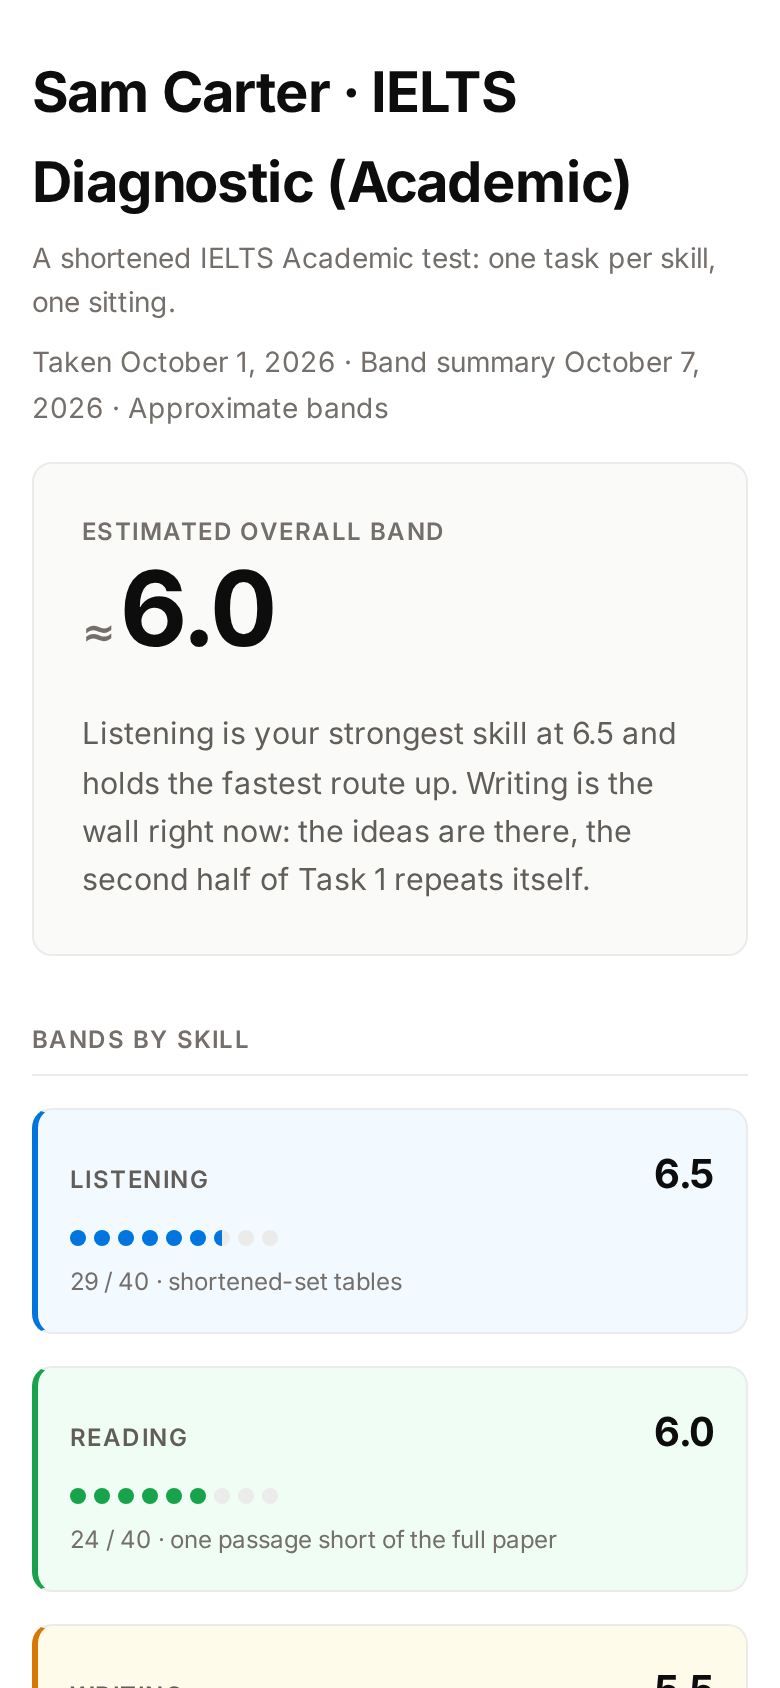
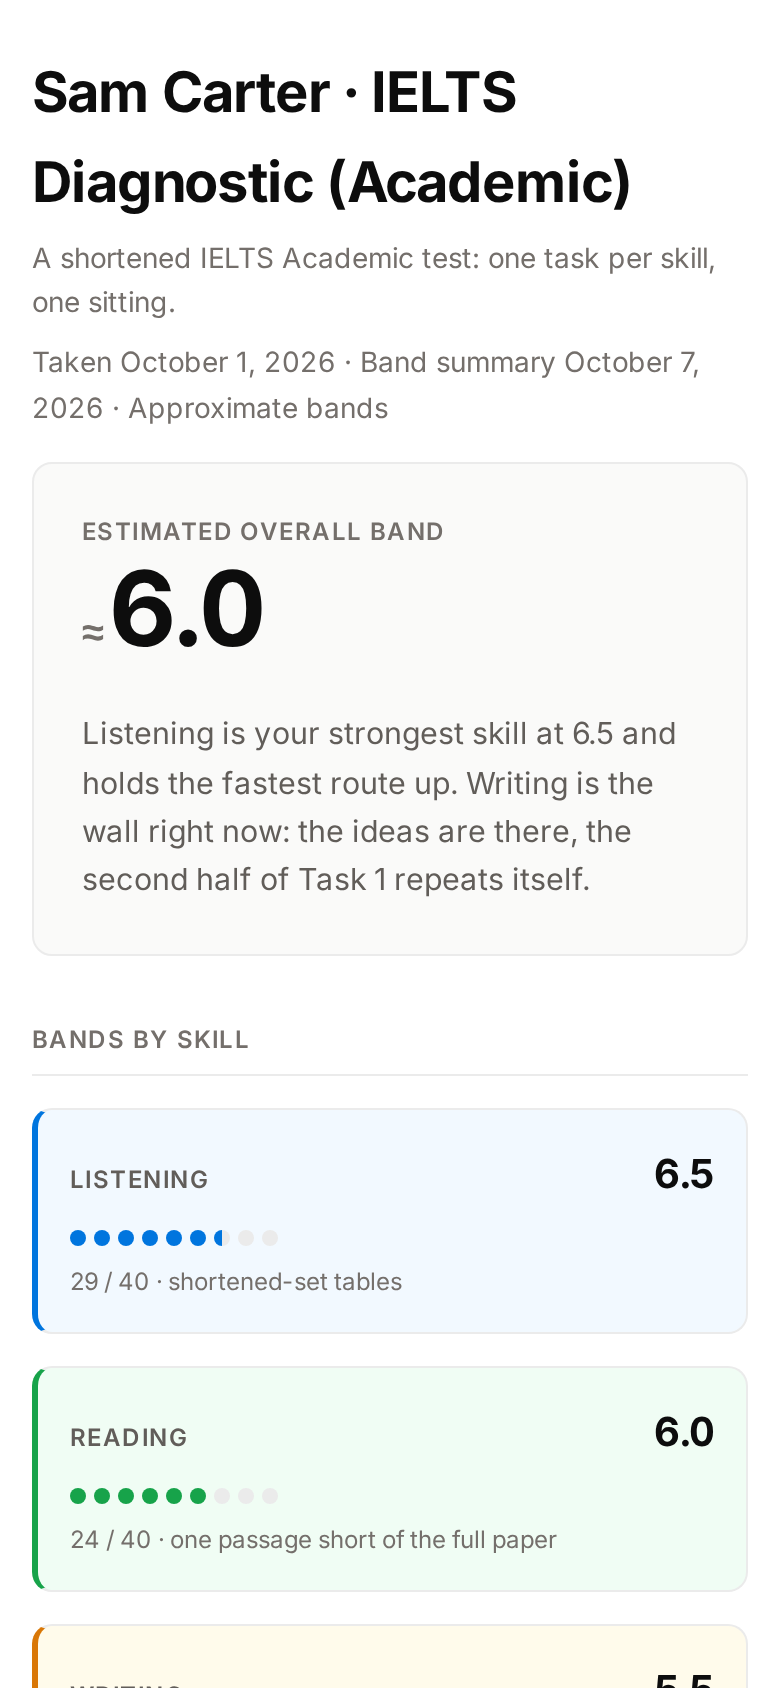
v1.5: the revised-version block retired from the canon (templates — 11 SLOTs, CSS removed; tokens 1.5; spec; demos rebuilt + fresh lint/QA artifacts)

Changed region(s): [[0.1231, 0.3389, 0.3692, 0.4005]]

diff --git a/templates/homework-analysis-template.html b/templates/homework-analysis-template.html
@@ -1,5 +1,5 @@
 <!DOCTYPE html>
-<!-- design-system: v1.3 -->
+<!-- design-system: v1.5 -->
 <html lang="en">
 <head>
 <meta charset="UTF-8" />
@@ -9,7 +9,7 @@
 <link href="https://fonts.googleapis.com/css2?family=Inter:wght@400;500;600;700&display=swap" rel="stylesheet" />
 <style>
   /* ============================================================
-     ESL Feedback Design System v1.3 — canonical stylesheet
+     ESL Feedback Design System v1.5 — canonical stylesheet
      Token values are frozen in tokens.json (repo root) and
      documented in docs/design-system.md.
      Do not tweak one document's copy: change the system, bump the
@@ -145,15 +145,7 @@
   .chip.green { border-color: var(--style); color: var(--style-ink); }
   .chip.purple { border-color: var(--punct); color: var(--punct-ink); }
 
-  /* green reveal boxes */
-  .revised-box {
-    background: var(--style-tint); border: 1px solid var(--praise-line); border-radius: var(--r-2);
-    padding: var(--sp-5); margin: var(--sp-4) 0; line-height: 1.8;
-  }
-  .revised-box .label {
-    display: inline-block; background: var(--style-ink); color: var(--white); font-size: var(--fs-6);
-    font-weight: 600; padding: var(--sp-1) var(--sp-3); border-radius: var(--r-3); margin-bottom: var(--sp-3);
-  }
+  /* green praise box */
   .praise-box {
     background: var(--style-tint); border: 1px solid var(--praise-line); border-radius: var(--r-2);
     padding: var(--sp-4) var(--sp-5); margin: var(--sp-3) 0;
@@ -209,7 +201,7 @@
   @media (max-width: 600px) { .tips-grid { grid-template-columns: 1fr; } }
   @media (max-width: 480px) {
     body { padding: var(--sp-5) var(--sp-4); }
-    .transcript-box, .revised-box, .strengths-box { padding: var(--sp-4); }
+    .transcript-box, .strengths-box { padding: var(--sp-4); }
     .fix-item { padding: var(--sp-3); }
   }
 
@@ -218,7 +210,7 @@
     body { max-width: none; padding: 0; print-color-adjust: exact; -webkit-print-color-adjust: exact; }
     .audio-block { display: none; }
     .table-scroll { overflow: visible; }
-    .fix-item, .transcript-box, .revised-box, .praise-box, .callout, .tip-card, .strengths-box, table.comp tr { break-inside: avoid; page-break-inside: avoid; }
+    .fix-item, .transcript-box, .praise-box, .callout, .tip-card, .strengths-box, table.comp tr { break-inside: avoid; page-break-inside: avoid; }
     a { text-decoration: underline; }
   }
 </style>
@@ -226,7 +218,7 @@
 <body>
 
 <!-- ================================================================
-     HOW TO USE THIS TEMPLATE (design-system v1.3)
+     HOW TO USE THIS TEMPLATE (design-system v1.5)
      1. Copy this file to <student>-<unit>-<date>.html and fill every
         block marked SLOT. Keep the class names and the structure.
      2. Task blocks (TASK BLOCK START / END) repeat once per task.
@@ -316,15 +308,6 @@
   <span class="chip purple">Punctuation</span>
   <div class="fix-line"><span class="orig">tired, because</span> → <span class="sugg">tired because</span></div>
   <div class="why">Russian puts a comma before "потому что"; English runs the two clauses together. Save commas for lists and asides.</div>
-</div>
-
-<!-- SLOT: revised version — the corrected text. Heading says "(Spoken)" for audio tasks, plain for written -->
-<h3>How It Could Sound (Spoken)</h3>
-<div class="revised-box">
-  <div class="label">More Polished Spoken Version</div>
-  Alex flew to Lisbon on Friday. He didn't take a taxi, he took the metro, and at the hotel he booked a room
-  with a view of the river. On the second day the museum was closed and the restaurant was full. So they walked
-  to the old town. He was tired because he woke up early, so he missed breakfast.
 </div>
 
 <!-- SLOT: praise — one concrete thing the student did right in this task; always keep one -->

diff --git a/examples/demo-homework-analysis.html b/examples/demo-homework-analysis.html
@@ -1,5 +1,5 @@
 <!DOCTYPE html>
-<!-- design-system: v1.3 -->
+<!-- design-system: v1.5 -->
 <html lang="en">
 <head>
 <meta charset="UTF-8" />
@@ -9,7 +9,7 @@
 <link href="https://fonts.googleapis.com/css2?family=Inter:wght@400;500;600;700&display=swap" rel="stylesheet" />
 <style>
   /* ============================================================
-     ESL Feedback Design System v1.3 — canonical stylesheet
+     ESL Feedback Design System v1.5 — canonical stylesheet
      Token values are frozen in tokens.json (repo root) and
      documented in docs/design-system.md.
      Do not tweak one document's copy: change the system, bump the
@@ -145,15 +145,7 @@
   .chip.green { border-color: var(--style); color: var(--style-ink); }
   .chip.purple { border-color: var(--punct); color: var(--punct-ink); }
 
-  /* green reveal boxes */
-  .revised-box {
-    background: var(--style-tint); border: 1px solid var(--praise-line); border-radius: var(--r-2);
-    padding: var(--sp-5); margin: var(--sp-4) 0; line-height: 1.8;
-  }
-  .revised-box .label {
-    display: inline-block; background: var(--style-ink); color: var(--white); font-size: var(--fs-6);
-    font-weight: 600; padding: var(--sp-1) var(--sp-3); border-radius: var(--r-3); margin-bottom: var(--sp-3);
-  }
+  /* green praise box */
   .praise-box {
     background: var(--style-tint); border: 1px solid var(--praise-line); border-radius: var(--r-2);
     padding: var(--sp-4) var(--sp-5); margin: var(--sp-3) 0;
@@ -209,7 +201,7 @@
   @media (max-width: 600px) { .tips-grid { grid-template-columns: 1fr; } }
   @media (max-width: 480px) {
     body { padding: var(--sp-5) var(--sp-4); }
-    .transcript-box, .revised-box, .strengths-box { padding: var(--sp-4); }
+    .transcript-box, .strengths-box { padding: var(--sp-4); }
     .fix-item { padding: var(--sp-3); }
   }
 
@@ -218,7 +210,7 @@
     body { max-width: none; padding: 0; print-color-adjust: exact; -webkit-print-color-adjust: exact; }
     .audio-block { display: none; }
     .table-scroll { overflow: visible; }
-    .fix-item, .transcript-box, .revised-box, .praise-box, .callout, .tip-card, .strengths-box, table.comp tr { break-inside: avoid; page-break-inside: avoid; }
+    .fix-item, .transcript-box, .praise-box, .callout, .tip-card, .strengths-box, table.comp tr { break-inside: avoid; page-break-inside: avoid; }
     a { text-decoration: underline; }
   }
 </style>
@@ -292,15 +284,6 @@
   <div class="fix-line"><span class="orig">came out, after lunch</span> → <span class="sugg">came out after lunch</span></div>
   <div class="why">No comma before <b>after lunch</b>. The sentence runs without a pause, and commas are for lists
   and real pauses.</div>
-</div>
-
-<h3>How It Could Sound (Spoken)</h3>
-<div class="revised-box">
-  <div class="label">More Polished Spoken Version</div>
-  Last weekend we went to Chiang Mai. We took the night train and arrived on Saturday morning. The hotel was near
-  the river, so we walked to the market and ate street food. We watched the sunset, then went back to the hotel.
-  On Sunday my sister wanted to take photos of the temple. It was raining, but we waited and the sun came out
-  after lunch.
 </div>
 
 <div class="praise-box">

diff --git a/templates/band-card-template.html b/templates/band-card-template.html
@@ -1,5 +1,5 @@
 <!DOCTYPE html>
-<!-- design-system: v1.4 -->
+<!-- design-system: v1.5 -->
 <html lang="en">
 <head>
 <meta charset="UTF-8" />
@@ -10,7 +10,7 @@
 <style>
 
   /* ============================================================
-     ESL Feedback Design System v1.3 — canonical stylesheet
+     ESL Feedback Design System v1.5 — canonical stylesheet
      Token values are frozen in tokens.json (repo root) and
      documented in docs/design-system.md.
      Do not tweak one document's copy: change the system, bump the
@@ -146,15 +146,7 @@
   .chip.green { border-color: var(--style); color: var(--style-ink); }
   .chip.purple { border-color: var(--punct); color: var(--punct-ink); }
 
-  /* green reveal boxes */
-  .revised-box {
-    background: var(--style-tint); border: 1px solid var(--praise-line); border-radius: var(--r-2);
-    padding: var(--sp-5); margin: var(--sp-4) 0; line-height: 1.8;
-  }
-  .revised-box .label {
-    display: inline-block; background: var(--style-ink); color: var(--white); font-size: var(--fs-6);
-    font-weight: 600; padding: var(--sp-1) var(--sp-3); border-radius: var(--r-3); margin-bottom: var(--sp-3);
-  }
+  /* green praise box */
   .praise-box {
     background: var(--style-tint); border: 1px solid var(--praise-line); border-radius: var(--r-2);
     padding: var(--sp-4) var(--sp-5); margin: var(--sp-3) 0;
@@ -210,7 +202,7 @@
   @media (max-width: 600px) { .tips-grid { grid-template-columns: 1fr; } }
   @media (max-width: 480px) {
     body { padding: var(--sp-5) var(--sp-4); }
-    .transcript-box, .revised-box, .strengths-box { padding: var(--sp-4); }
+    .transcript-box, .strengths-box { padding: var(--sp-4); }
     .fix-item { padding: var(--sp-3); }
   }
 
@@ -219,7 +211,7 @@
     body { max-width: none; padding: 0; print-color-adjust: exact; -webkit-print-color-adjust: exact; }
     .audio-block { display: none; }
     .table-scroll { overflow: visible; }
-    .fix-item, .transcript-box, .revised-box, .praise-box, .callout, .tip-card, .strengths-box, table.comp tr { break-inside: avoid; page-break-inside: avoid; }
+    .fix-item, .transcript-box, .praise-box, .callout, .tip-card, .strengths-box, table.comp tr { break-inside: avoid; page-break-inside: avoid; }
     a { text-decoration: underline; }
   }
 
@@ -294,7 +286,7 @@
 </head>
 <body>
 <!-- ================================================================
-     HOW TO USE THIS TEMPLATE (design-system v1.4, band card variant)
+     HOW TO USE THIS TEMPLATE (design-system v1.5, band card variant)
      1. New document = a copy of this file; it is self-contained.
      2. Fill every SLOT marker (search for the word SLOT); delete the
         blocks a card does not need. Band cards: tag every skill block

diff --git a/examples/demo-band-card.html b/examples/demo-band-card.html
@@ -1,5 +1,5 @@
 <!DOCTYPE html>
-<!-- design-system: v1.4 -->
+<!-- design-system: v1.5 -->
 <html lang="en">
 <head>
 <meta charset="UTF-8" />
@@ -10,7 +10,7 @@
 <style>
 
   /* ============================================================
-     ESL Feedback Design System v1.3 — canonical stylesheet
+     ESL Feedback Design System v1.5 — canonical stylesheet
      Token values are frozen in tokens.json (repo root) and
      documented in docs/design-system.md.
      Do not tweak one document's copy: change the system, bump the
@@ -146,15 +146,7 @@
   .chip.green { border-color: var(--style); color: var(--style-ink); }
   .chip.purple { border-color: var(--punct); color: var(--punct-ink); }
 
-  /* green reveal boxes */
-  .revised-box {
-    background: var(--style-tint); border: 1px solid var(--praise-line); border-radius: var(--r-2);
-    padding: var(--sp-5); margin: var(--sp-4) 0; line-height: 1.8;
-  }
-  .revised-box .label {
-    display: inline-block; background: var(--style-ink); color: var(--white); font-size: var(--fs-6);
-    font-weight: 600; padding: var(--sp-1) var(--sp-3); border-radius: var(--r-3); margin-bottom: var(--sp-3);
-  }
+  /* green praise box */
   .praise-box {
     background: var(--style-tint); border: 1px solid var(--praise-line); border-radius: var(--r-2);
     padding: var(--sp-4) var(--sp-5); margin: var(--sp-3) 0;
@@ -210,7 +202,7 @@
   @media (max-width: 600px) { .tips-grid { grid-template-columns: 1fr; } }
   @media (max-width: 480px) {
     body { padding: var(--sp-5) var(--sp-4); }
-    .transcript-box, .revised-box, .strengths-box { padding: var(--sp-4); }
+    .transcript-box, .strengths-box { padding: var(--sp-4); }
     .fix-item { padding: var(--sp-3); }
   }
 
@@ -219,7 +211,7 @@
     body { max-width: none; padding: 0; print-color-adjust: exact; -webkit-print-color-adjust: exact; }
     .audio-block { display: none; }
     .table-scroll { overflow: visible; }
-    .fix-item, .transcript-box, .revised-box, .praise-box, .callout, .tip-card, .strengths-box, table.comp tr { break-inside: avoid; page-break-inside: avoid; }
+    .fix-item, .transcript-box, .praise-box, .callout, .tip-card, .strengths-box, table.comp tr { break-inside: avoid; page-break-inside: avoid; }
     a { text-decoration: underline; }
   }
 

diff --git a/docs/design-system.md b/docs/design-system.md
@@ -1,6 +1,6 @@
-# ESL Feedback Design System — v1.4
+# ESL Feedback Design System — v1.5
 
-Status: **v1.4**, updated 2026-10-05. Scope: student feedback documents (the
+Status: **v1.5**, updated 2026-10-09. Scope: student feedback documents (the
 "ESL Analysis" family): homework analyses and IELTS band cards. Light theme
 only. This system is a polish of a working style, not a redesign: every
 decision below is checkable with numbers.
@@ -8,7 +8,7 @@ decision below is checkable with numbers.
 | File | What it is |
 |---|---|
 | `templates/homework-analysis-template.html` | Canonical template. A new document is a copy of this file |
-| `templates/band-card-template.html` | Skeleton of the IELTS band card (v1.3 variant, sections 11–12) |
+| `templates/band-card-template.html` | Skeleton of the IELTS band card (band-card variant, v1.4) |
 | `templates/REPLACE-ME.wav` | Audio placeholder: a one-second beep. A copy of a template that forgot to replace the `src` beeps instead of playing the recording |
 | `tokens.json` | Machine-readable tokens for the linter (`version`, `colors.allowed`, `font_sizes`, `spacing`) |
 | `docs/design-system.md` | This document |
@@ -54,7 +54,7 @@ transcript underline, chip border), **tint** (card background and highlights),
 | `--accent-ink` | `#0070d5` | blue text: links, strong inside blue boxes |
 | `--accent-deep` | `#1e3a5f` | text on the blue tint |
 | `--accent-tint` | `#f2f9ff` | callout / strengths background |
-| `--praise-line` | `#c3efdd` | border of the green reveal boxes |
+| `--praise-line` | `#c3efdd` | border of the green praise box |
 
 ### Contrast (WCAG 2.x)
 
@@ -68,7 +68,7 @@ Minimums: normal text 4.5:1, non-text indicators 3:1.
 | base indicators vs their own tint | 3.07 (orange) | 3.0 | PASS |
 | ink roles (chip text) | 5.91 (grammar) | 4.5 | PASS |
 | `--accent-ink` on `--surface-1` | 4.58 | 4.5 | PASS |
-| white text on `--style-ink` (revised label) | 7.68 | 4.5 | PASS |
+| white text on `--style-ink` (until v1.5, the revised label) | 7.68 | 4.5 | PASS |
 
 ### What changed and why (movement kept to a minimum, all by the numbers)
 
@@ -100,7 +100,7 @@ them with `tokens.json`).
 | `--fs-1` | 1.75rem | document title | `h1` |
 | `--fs-2` | 1.25rem | section heading | `h2` |
 | `--fs-3` | 1rem | card title | `h3` |
-| `--fs-4` | 0.95rem | body | body, transcript, callout, strengths, praise, revised |
+| `--fs-4` | 0.95rem | body | body, transcript, callout, strengths, praise |
 | `--fs-5` | 0.875rem | secondary | subtitle, meta, why, tables, tips, links |
 | `--fs-6` | 0.75rem | label | badge, chip, legend item, section title, tip number (uppercase, letter-spaced) |
 
@@ -108,8 +108,8 @@ The audit's 26 distinct sizes were folded by component role into these six
 (for example 14.5px went to 1rem as a card title and to 0.875rem as body text).
 That is the point of the scale: six roles instead of twenty-six values.
 
-Line heights: two values, 1.6 (default) and 1.8 (long-form reading: transcript,
-revised version). Weights 400/500/600/700 (Inter, Google Fonts). Tracking:
+Line heights: two values, 1.6 (default) and 1.8 (long-form reading: transcript).
+Weights 400/500/600/700 (Inter, Google Fonts). Tracking:
 -0.02em on h1, 0.06em on section titles, 0.04em on badges and chips.
 
 ---
@@ -125,7 +125,7 @@ Exclusions (not spacing): border widths 1px / 1.5px (highlight underline) /
 tip number 24px, page max-width 760px), radii.
 
 Radii: `--r-1: 6px` (tip number, audio), `--r-2: 10px` (cards), `--r-3: 999px`
-(badges, chips, legend pills, revised label); the callout uses
+(badges, chips, legend pills); the callout uses
 `0 10px 10px 0`. Shadows: none. Borders and tints carry every separation.
 
 ---
@@ -145,7 +145,7 @@ Comprehension Overview → Actionable Tips → Strengths.
 | Transcript | `.transcript-box` + `.hl-{role}` | The student's errors are underlined in the role's base colour on its own tint. The class is the category; no other highlight classes allowed |
 | Fix card | `.fix-item.{role}` | 3px left rule, tint background. Inside: `.chip` → `.fix-line` (`.orig` → `.sugg`) → `.why` |
 | Category chip | `.chip` of the same role | **Mandatory in every fix**: the category as text on top of the colour (colour-blindness protection). Fixed forms: Grammar, Word choice, Sentence flow, Style & speech, Punctuation |
-| Revised version | `.revised-box` + `.label` | Solid dark-green label, white text; heading says "(Spoken)" for audio tasks |
+| Revised version (removed in v1.5) | ~~`.revised-box` + `.label`~~ | No longer part of the structure: "How It Could Sound/Read" blocks are not generated; they remain only in documents shipped before 2026-10-01 |
 | Praise | `.praise-box` | One concrete win per task, with a number or a quote; always present |
 | Blue boxes | `.strengths-box` (and optional `.callout`) | 3px blue left rule, `--accent-tint` background |
 | Tables | `.table-scroll > table.comp` | The wrapper is mandatory (mobile scroll). Verdict cells: `td.good`, `td.miss` |
@@ -153,8 +153,8 @@ Comprehension Overview → Actionable Tips → Strengths.
 | Strengths | `.strengths-box` + `.item` | 3–6 items, each starting with a star, each carrying a quote or a number |
 
 Slot instructions for authors inside the template are marked
-`<!-- SLOT: … -->` — each one says what to fill in and which classes are
-allowed.
+`<!-- SLOT: … -->` (11 markers) — each one says what to fill in and which
+classes are allowed.
 
 ---
 
@@ -206,10 +206,10 @@ padding drops to zero.
    stamp, `tokens.json` → `version`, and this document's title.
 5. **Delivered documents are never rewritten.** A typo fix is a new dated file;
    the old one stays as delivered.
-6. **Prose rules for teacher text** (fix notes, praise, tips, revised
-   versions): short, 2–3 sentences per why-note; second person ("you"), never
-   third; no long dashes; no machine speech metrics (no wpm, no pause counts,
-   no "thinking sound" counters); varied sentence lengths. The student's own
+6. **Prose rules for teacher text** (fix notes, praise, tips): short, 2–3
+   sentences per why-note; second person ("you"), never third; no long
+   dashes; no machine speech metrics (no wpm, no pause counts, no "thinking
+   sound" counters); varied sentence lengths. The student's own
    words (transcripts, quotes, written answers) are never edited.
 
 ---
@@ -226,8 +226,8 @@ padding drops to zero.
   zero page overflow; on the phone the tables scroll inside their wrapper
   (483px inside 358px) while the desktop fits them whole; an old baseline had
   117px of horizontal overflow on mobile, which v1 removed.
-- Linter: 9/9 on the template and on the showcase at every version, including
-  v1.1–v1.4. The tooling self-test (`tools/selftest.sh`) asserts both tools'
+- Linter: 9/9 on the templates and the demos at every version, including
+  v1.1–v1.5. The tooling self-test (`tools/selftest.sh`) asserts both tools'
   exit codes against the fixtures.
 - **v1.1** (2026-09-24): the closing block, the line after the legend and the
   "At a Glance" section were removed from the structure.
@@ -244,6 +244,18 @@ padding drops to zero.
   Mapping: Listening → `--accent`, Reading → `--style`, Writing →
   `--word-choice`, Speaking → `--punct`. The text label of the skill is always
   kept: the colour duplicates, it does not replace.
+- **v1.5** (2026-10-09): the revised-version block left the canon. The "How It
+  Could Sound (Spoken)" / "How It Could Read" blocks and the green "More
+  Polished …" label are no longer generated: after the fixes a task goes
+  straight to its praise box (praise stays mandatory). Both templates lost
+  the slot — 11 `SLOT` markers now — and the `.revised-box` / `.revised-box
+  .label` CSS rules were removed from the canonical stylesheet (the component
+  is retired the way `.closing` was in v1.1). The linter is unchanged: the
+  block never was a required component. Applied to documents shipped from
+  2026-10-01; earlier files and showcases keep the block historically and are
+  not rebuilt. Version bumped in the three places: template stamps (v1.5),
+  `tokens.json` (1.5), this document's title. The band-card skeleton is
+  unchanged.
 
 ---
 

diff --git a/README.md b/README.md
@@ -60,7 +60,7 @@ esl-feedback-design-system/
 ├── templates/   homework-analysis-template.html · band-card-template.html · REPLACE-ME.wav
 ├── tools/       check_design.py · qa_run.py · selftest.sh · fixtures/
 ├── examples/    demo-homework-analysis.html · demo-band-card.html · demo-tone.wav
-├── docs/        design-system.md (full spec, v1.4)
+├── docs/        design-system.md (full spec, v1.5)
 ├── assets/      banners · demo screenshots · QA reports
 └── tokens.json  machine-readable palette, type scale, spacing (read by the linter)
 ```
